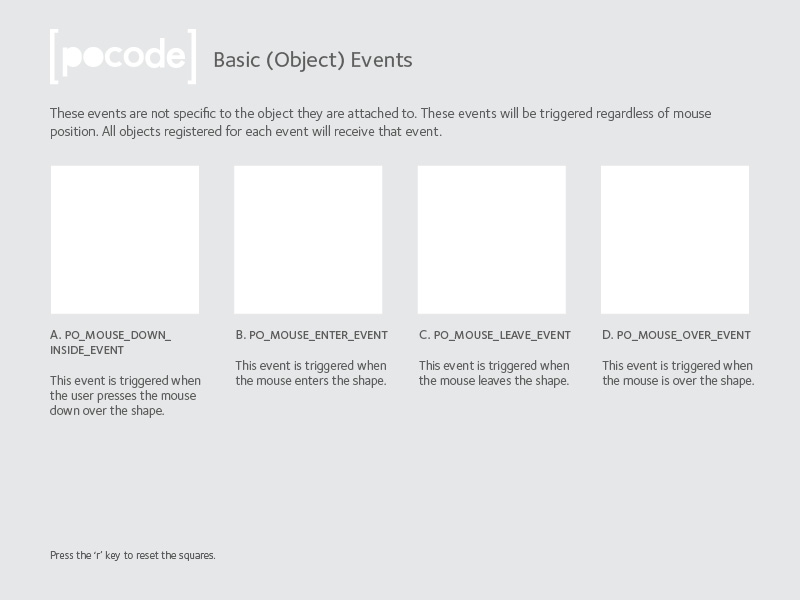
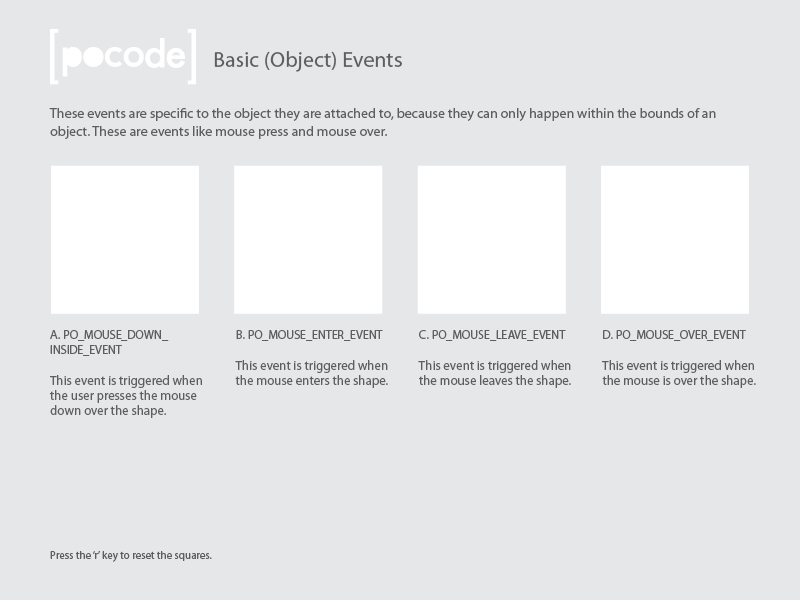
examples last clean up

diff --git a/examples/01_Essentials/01_Graphics/04_SimpleDrawing/SimpleDrawing/SimpleDrawingApp.cpp b/examples/01_Essentials/01_Graphics/04_SimpleDrawing/SimpleDrawing/SimpleDrawingApp.cpp
@@ -18,11 +18,6 @@ SimpleDrawingApp::SimpleDrawingApp() {
 	// Add a camera
 	addModifier(new poCamera2D(poColor::black));
 	
-	// Show poCode lesson image in the background
-    poRectShape* BG = new poRectShape("bg.jpg");
-//    BG->alpha = 0.5;
-//	addChild( BG );
-	
 	bgTex = new poTexture("bg.jpg");					// Define a texture for the background
 	rectTex = new poTexture("pear.jpg");				// Define a texture for the rectangle in B
 	polygonTex = new poTexture("orange.jpg");			// Define a texture for the polygon in C

diff --git a/examples/02_Tutorials/03_MoneyMaking/MoneyMaking/Coin.cpp b/examples/02_Tutorials/03_MoneyMaking/MoneyMaking/Coin.cpp
@@ -54,7 +54,7 @@ void Coin::eventHandler( poEvent* event ) {
 	
 	if( event->type == PO_MOUSE_DOWN_INSIDE_EVENT ) {
 		
-		dragOffset.set( event->localPosition.x, event->localPosition.y, 0);
+		dragOffset = event->localPosition;
 		dragOffset += coinImage->offset;
 	}
 	else if( event->type == PO_MOUSE_DRAG_INSIDE_EVENT ) {

diff --git a/examples/01_Essentials/02_Events/01_BasicObjectEvents/BasicObjectEvents/BasicObjectEventsApp.cpp b/examples/01_Essentials/02_Events/01_BasicObjectEvents/BasicObjectEvents/BasicObjectEventsApp.cpp
@@ -23,7 +23,7 @@ BasicObjectEventsApp::BasicObjectEventsApp() {
 	
 	
 	// A NOTE ON OBJECT EVENTS ///////////////////////
-	// Object events happen within the bounds of a shape
+	// Object events happen within the bounds of an object
 	
 	
 	// A. PO_MOUSE_DOWN_INSIDE_EVENT ///////////////////////

diff --git a/examples/02_Tutorials/03_MoneyMaking/MoneyMaking/MoneyMakingApp.cpp b/examples/02_Tutorials/03_MoneyMaking/MoneyMaking/MoneyMakingApp.cpp
@@ -66,7 +66,6 @@ MoneyMakingApp::MoneyMakingApp() {
 	
 	poImageShape* pig = new poImageShape("pig.png");
 	pig->position.set(355, 150, 0);
-//	pig->alpha = 0.5;
 	addChild(pig);
 	
 	currentCount = 0.f;
